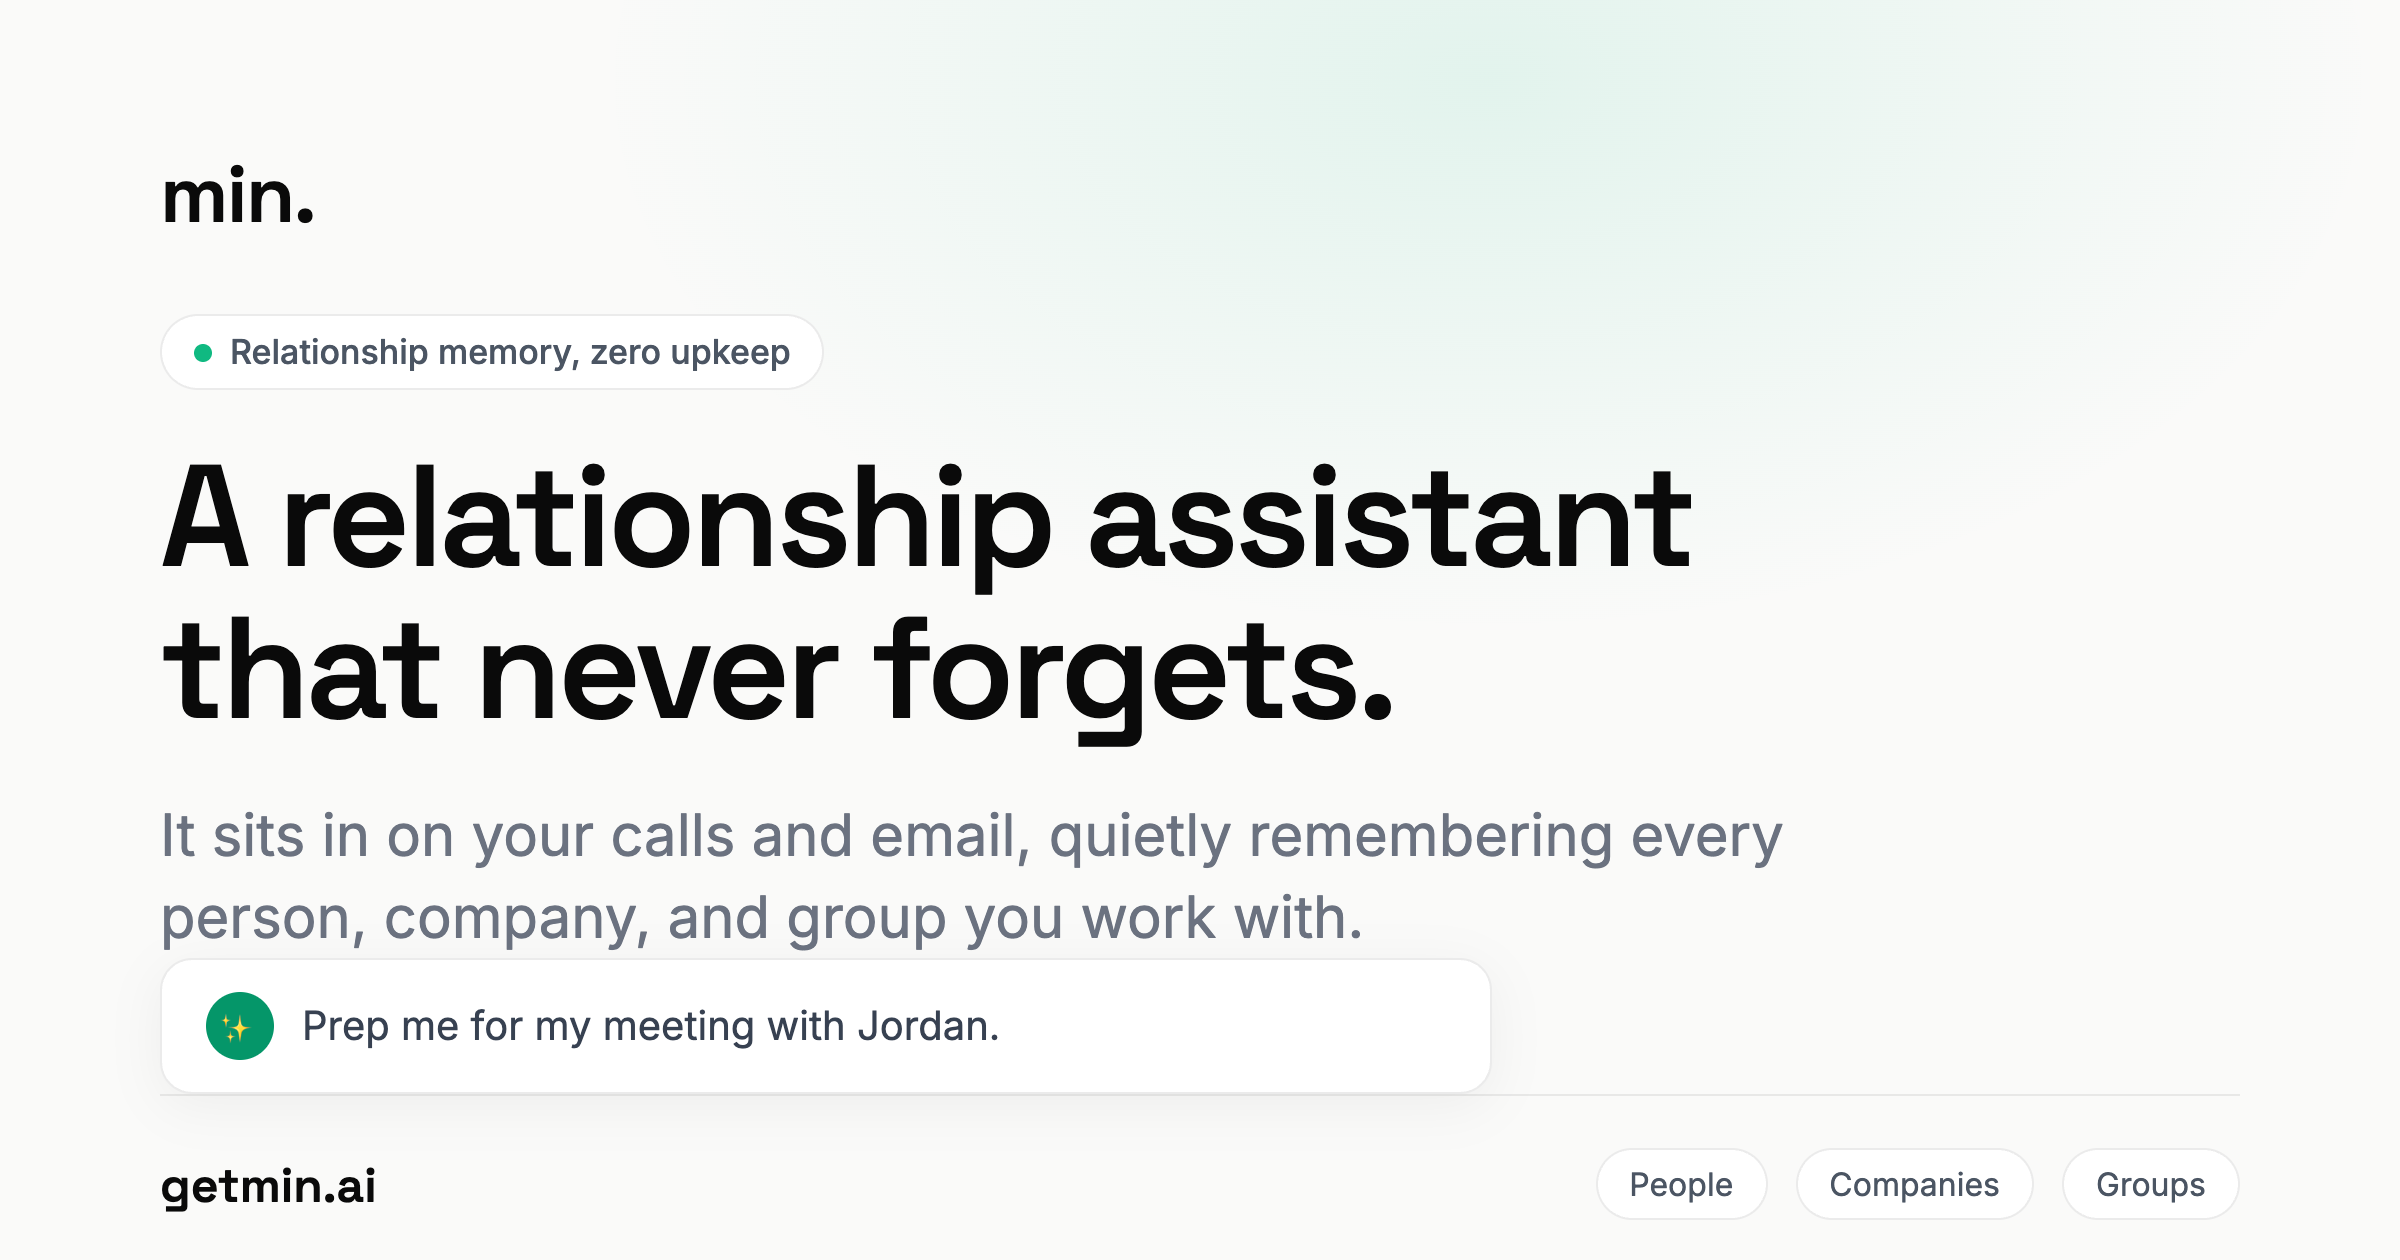
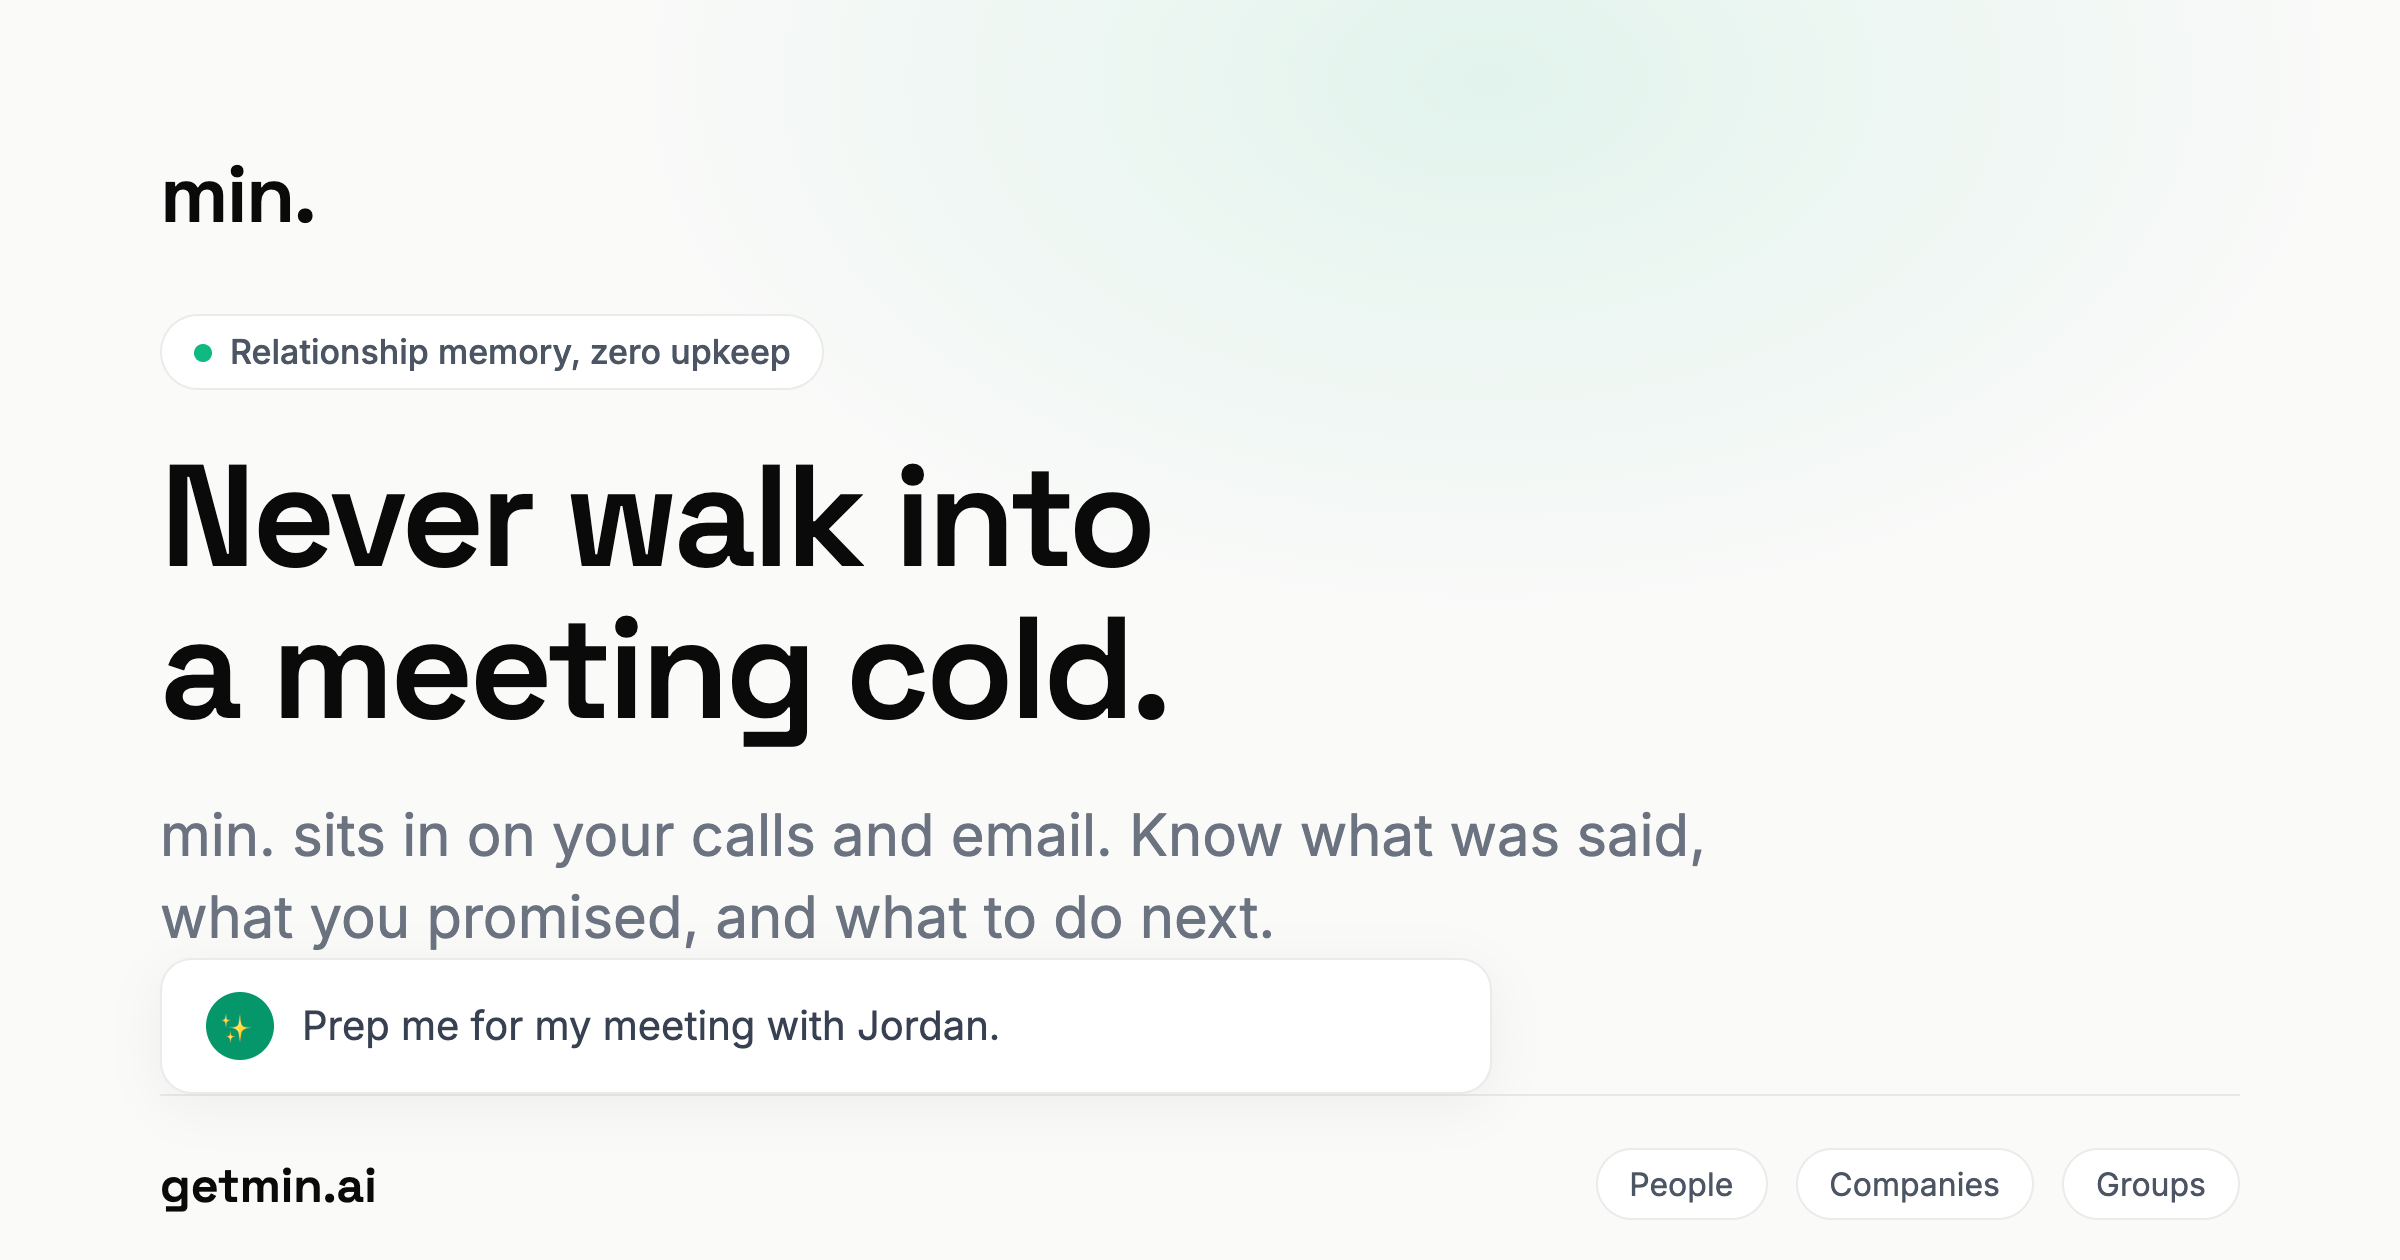
Reposition the hero on the pain, not the abstraction
The H1 was promising a lagging outcome ("grows your connections") instead of
a moment the visitor felt this week, and our strongest emotional line was
buried in the sub. Restructure so immediate value lands in three seconds:

- Hero is now the moment: "Never walk into a meeting cold." The sub states
  the value explicitly, what was said, what you promised, what to do next,
  which the capsule demo already proves but no headline ever claimed.
- Revive ProblemStrip as a recognition beat right after the hero: three
  moments the visitor recognizes, closing on the category turn ("Meeting
  apps remember meetings. Inboxes remember threads. min. remembers
  relationships."). Rewritten to drop the CRM mention.
- FinalCTA takes over the growth vision, "Relationships that grow instead
  of fade", which also clears its duplicate "stop walking in cold".
- Cascade the tagline through title, Open Graph, Twitter, JSON-LD, About,
  and regenerate the OG share image.

Changed region(s): [[0.0625, 0.3714, 0.7188, 0.619], [0.0625, 0.65, 0.75, 0.681], [0.0625, 0.7119, 0.5625, 0.7429]]

diff --git a/src/components/landing/ProblemStrip.tsx b/src/components/landing/ProblemStrip.tsx
@@ -1,38 +1,38 @@
 import { FadeIn } from "@/components/vision/FadeIn";
 
+/**
+ * The recognition beat: three moments the visitor felt this week, before any
+ * pitch. Closes on the category turn, why nothing they already use fixed it.
+ */
+
 const PROBLEMS = [
-  {
-    quote: "I walked into the call cold. I couldn't remember what we agreed to last time.",
-    sub: null,
-  },
-  {
-    quote: "We tried a CRM. Nobody filled it in. It died.",
-    sub: "CRMs are built for sales teams running pipeline, and small teams get forced into them anyway.",
-  },
-  {
-    quote: "The knowledge lives in threads and calls nobody rereads.",
-    sub: "When a teammate leaves, their relationships leave with them.",
-  },
+  "You have a call in ten minutes and cannot remember what you agreed last time.",
+  "You promised to send something three weeks ago. It is still sitting there.",
+  "Someone who mattered went quiet, and you noticed months too late.",
 ];
 
 export default function ProblemStrip() {
   return (
-    <section className="border-y border-gray-100 bg-white px-4 py-16 md:py-20">
-      <div className="mx-auto grid max-w-6xl grid-cols-1 gap-8 md:grid-cols-3 md:gap-10">
-        {PROBLEMS.map((p, i) => (
-          <FadeIn key={i} delay={i * 0.08}>
-            <div className="md:px-2">
-              <p className="font-display text-[19px] font-medium leading-snug text-gray-900">
-                {p.quote}
+    <section className="border-y border-gray-100 bg-white px-4 py-14 md:py-20">
+      <div className="mx-auto max-w-6xl">
+        <div className="grid grid-cols-1 gap-8 md:grid-cols-3 md:gap-10">
+          {PROBLEMS.map((p, i) => (
+            <FadeIn key={i} delay={i * 0.08}>
+              <p className="font-display text-[19px] font-medium leading-snug text-gray-900 md:px-2">
+                {p}
               </p>
-              {p.sub && (
-                <p className="mt-3 text-[14.5px] leading-relaxed text-gray-500">
-                  {p.sub}
-                </p>
-              )}
-            </div>
-          </FadeIn>
-        ))}
+            </FadeIn>
+          ))}
+        </div>
+
+        <FadeIn delay={0.24}>
+          <p className="mt-12 border-t border-gray-100 pt-8 text-center text-[17px] leading-relaxed text-gray-500">
+            Meeting apps remember meetings. Inboxes remember threads.{" "}
+            <span className="font-medium text-gray-900">
+              min. remembers relationships.
+            </span>
+          </p>
+        </FadeIn>
       </div>
     </section>
   );

diff --git a/index.html b/index.html
@@ -4,32 +4,32 @@
   <head>
     <meta charset="UTF-8" />
     <meta name="viewport" content="width=device-width, initial-scale=1.0" />
-    <title>min. | The relationship assistant that never forgets</title>
+    <title>min. | Never walk into a meeting cold</title>
     <!-- Primary Meta Tags -->
-    <meta name="title" content="min. | The relationship assistant that never forgets" />
-    <meta name="description" content="min. is your relationship assistant with perfect recall. It sits in on your calls and email and remembers every person, company, and group you work with, so you show up for people the way you always meant to." />
+    <meta name="title" content="min. | Never walk into a meeting cold" />
+    <meta name="description" content="min. sits in on your calls and email, quietly remembering every person, company, and group you work with. Before any conversation, know what was said, what you promised, and what to do next." />
     <meta name="keywords" content="relationship assistant, relationship memory, relationship capsule, CRM alternative, calendar and email assistant, meeting prep, follow up reminders, relationship management" />
     <meta name="author" content="min." />
 
     <!-- Open Graph / Facebook -->
     <meta property="og:type" content="website" />
     <meta property="og:url" content="https://getmin.ai/" />
-    <meta property="og:title" content="min. | The relationship assistant that never forgets" />
-    <meta property="og:description" content="min. is your relationship assistant with perfect recall. It sits in on your calls and email and remembers every person, company, and group you work with, so you show up for people the way you always meant to." />
+    <meta property="og:title" content="min. | Never walk into a meeting cold" />
+    <meta property="og:description" content="min. sits in on your calls and email, quietly remembering every person, company, and group you work with. Before any conversation, know what was said, what you promised, and what to do next." />
     <meta property="og:image" content="https://getmin.ai/og-cover.png" />
     <meta property="og:image:width" content="2400" />
     <meta property="og:image:height" content="1260" />
-    <meta property="og:image:alt" content="min. — a relationship assistant that never forgets" />
+    <meta property="og:image:alt" content="min. — never walk into a meeting cold" />
     <meta property="og:site_name" content="min." />
     <meta property="og:locale" content="en_US" />
 
     <!-- Twitter -->
     <meta name="twitter:card" content="summary_large_image" />
     <meta name="twitter:url" content="https://getmin.ai/" />
-    <meta name="twitter:title" content="min. | The relationship assistant that never forgets" />
-    <meta name="twitter:description" content="min. is your relationship assistant with perfect recall. It sits in on your calls and email and remembers every person, company, and group you work with, so you show up for people the way you always meant to." />
+    <meta name="twitter:title" content="min. | Never walk into a meeting cold" />
+    <meta name="twitter:description" content="min. sits in on your calls and email, quietly remembering every person, company, and group you work with. Before any conversation, know what was said, what you promised, and what to do next." />
     <meta name="twitter:image" content="https://getmin.ai/og-cover.png" />
-    <meta name="twitter:image:alt" content="min. — a relationship assistant that never forgets" />
+    <meta name="twitter:image:alt" content="min. — never walk into a meeting cold" />
     <meta name="twitter:creator" content="@getminai" />
     <meta name="twitter:site" content="@getminai" />
     
@@ -52,7 +52,7 @@
       "@context": "https://schema.org",
       "@type": "SoftwareApplication",
       "name": "min.",
-      "description": "min. is your relationship assistant with perfect recall. It sits in on your calls and email and remembers every person, company, and group you work with, so you show up for people the way you always meant to.",
+      "description": "min. sits in on your calls and email, quietly remembering every person, company, and group you work with. Before any conversation, know what was said, what you promised, and what to do next.",
       "applicationCategory": "BusinessApplication",
       "applicationSubCategory": "Relationship Management",
       "operatingSystem": "Web",

diff --git a/src/components/landing/LandingHero.tsx b/src/components/landing/LandingHero.tsx
@@ -22,16 +22,16 @@ export default function LandingHero() {
 
           <FadeIn delay={0.1}>
             <h1 className="font-display text-[2.6rem] font-semibold leading-[1.08] tracking-tight text-gray-900 sm:text-5xl md:text-6xl">
-              A relationship assistant
-              <br className="hidden sm:block" /> that grows your connections.
+              Never walk into
+              <br className="hidden sm:block" /> a meeting cold.
             </h1>
           </FadeIn>
 
           <FadeIn delay={0.18}>
             <p className="mx-auto mt-6 max-w-xl text-[17px] leading-relaxed text-gray-500 lg:mx-0">
-              min. sits in on your calls and email, quietly remembering. Ask
-              it anything, and show up for people the way you always meant to,
-              growing every relationship that matters.
+              min. sits in on your calls and email, quietly remembering. Before
+              any conversation, know what was said, what you promised, and what
+              to do next.
             </p>
           </FadeIn>
 

diff --git a/public/og-image.html b/public/og-image.html
@@ -143,11 +143,11 @@
                 <div class="logo">min.</div>
                 <div class="badge"><span class="badge-dot"></span>Relationship memory, zero upkeep</div>
                 <div class="headline">
-                    A relationship assistant<br>
-                    that never forgets.
+                    Never walk into<br>
+                    a meeting cold.
                 </div>
                 <div class="subheadline">
-                    It sits in on your calls and email, quietly remembering every person, company, and group you work with.
+                    min. sits in on your calls and email. Know what was said, what you promised, and what to do next.
                 </div>
             </div>
 

diff --git a/src/components/landing/FinalCTA.tsx b/src/components/landing/FinalCTA.tsx
@@ -12,10 +12,12 @@ export default function FinalCTA() {
           <Constellation className="opacity-40" />
           <div className="relative">
             <h2 className="mx-auto mb-6 max-w-2xl font-display text-3xl font-semibold leading-[1.1] tracking-tight text-white md:text-5xl">
-              Stop walking in cold.
+              Relationships that grow
+              <br className="hidden sm:block" /> instead of fade.
             </h2>
             <p className="mx-auto mb-10 max-w-xl text-lg leading-relaxed text-gray-400">
-              Connect in two minutes. min. does the rest.
+              Show up for people the way you always meant to. Connect in two
+              minutes. min. does the rest.
             </p>
             <div className="flex flex-col items-center justify-center gap-4 sm:flex-row">
               <a

diff --git a/src/pages/Index.tsx b/src/pages/Index.tsx
@@ -2,6 +2,7 @@ import { Helmet } from "react-helmet-async";
 import PillNav from "@/components/PillNav";
 import MinFooter from "@/components/MinFooter";
 import LandingHero from "@/components/landing/LandingHero";
+import ProblemStrip from "@/components/landing/ProblemStrip";
 import Integrations from "@/components/landing/Integrations";
 import CapsuleTypes from "@/components/landing/CapsuleTypes";
 import CapsuleUpClose from "@/components/landing/CapsuleUpClose";
@@ -15,10 +16,10 @@ const Index = () => {
   return (
     <>
       <Helmet>
-        <title>min. | The relationship assistant that never forgets</title>
+        <title>min. | Never walk into a meeting cold</title>
         <meta
           name="description"
-          content="min. is your relationship assistant with perfect recall. It sits in on your calls and email and remembers every person, company, and group you work with, so you show up for people the way you always meant to."
+          content="min. sits in on your calls and email, quietly remembering every person, company, and group you work with. Before any conversation, know what was said, what you promised, and what to do next."
         />
         <link rel="canonical" href="https://getmin.ai" />
       </Helmet>
@@ -28,6 +29,7 @@ const Index = () => {
 
         <main className="flex-1">
           <LandingHero />
+          <ProblemStrip />
           <Integrations />
           <CapsuleTypes />
           <CapsuleUpClose />

diff --git a/src/pages/About.tsx b/src/pages/About.tsx
@@ -54,7 +54,7 @@ export default function About() {
   return (
     <>
       <Helmet>
-        <title>About min. | The relationship assistant that never forgets</title>
+        <title>About min. | Never walk into a meeting cold</title>
         <meta
           name="description"
           content="min. turns your calendar and email into a living memory of every relationship, person, company, and group, so the people whose work runs on relationships never have to rely on memory alone."